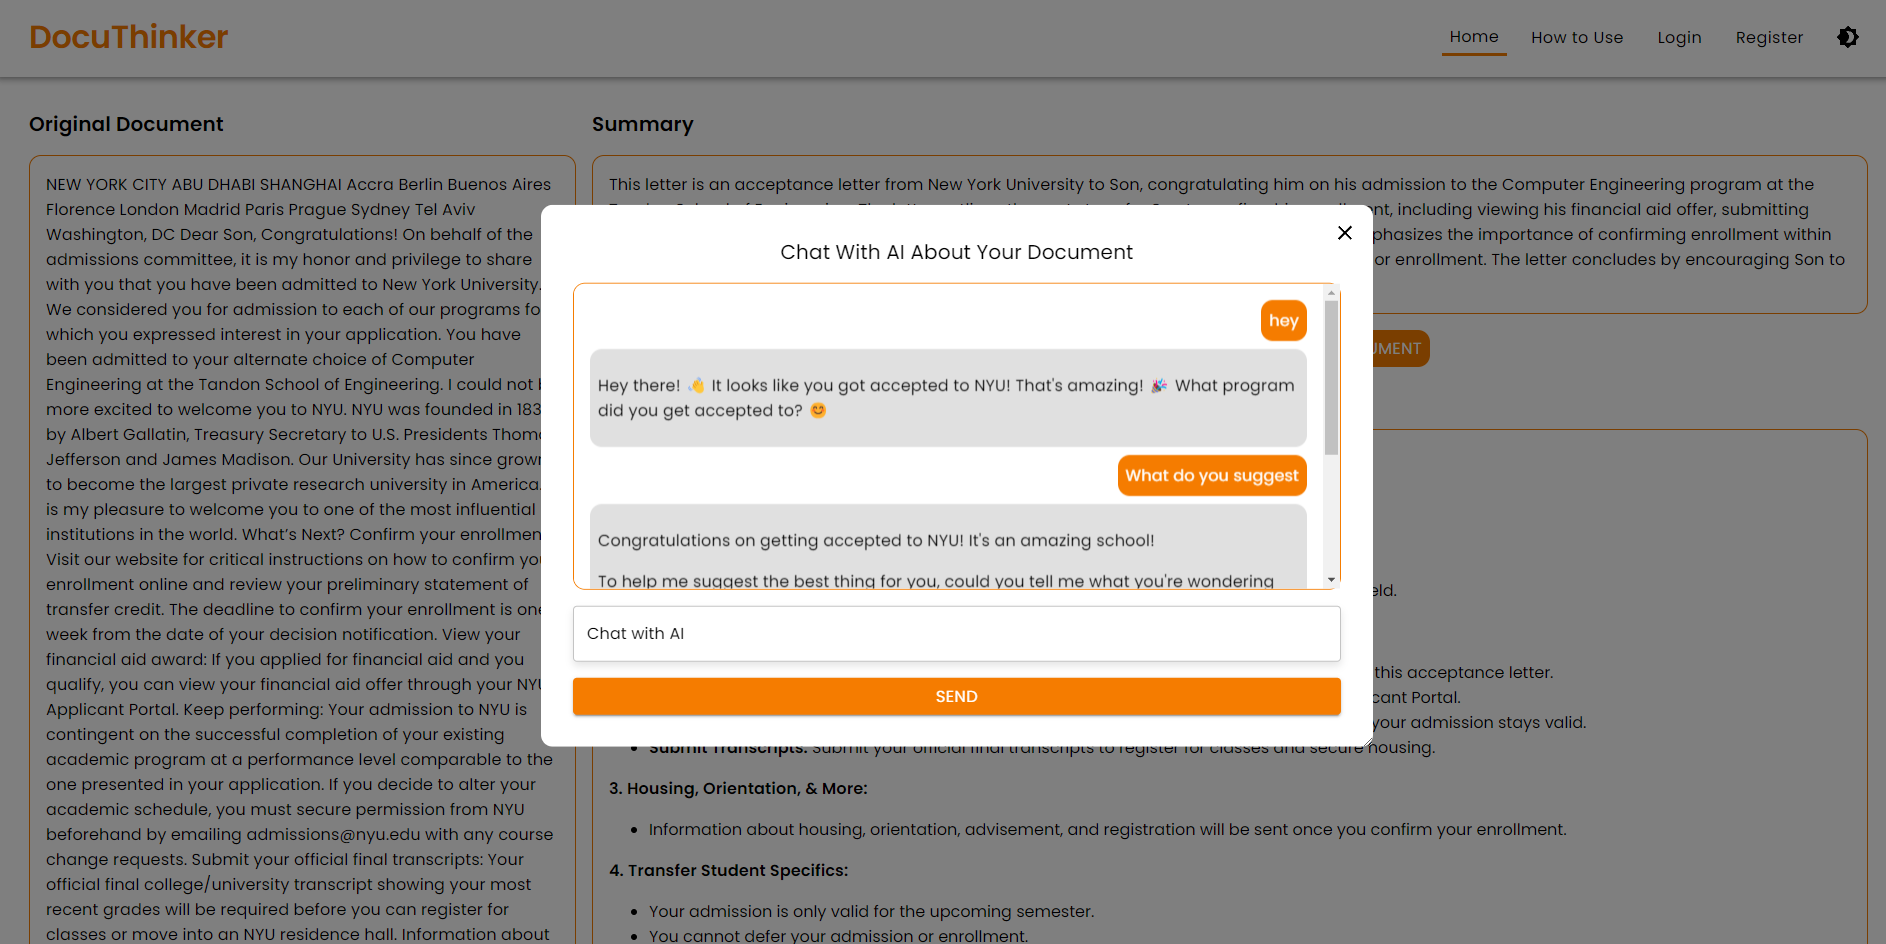
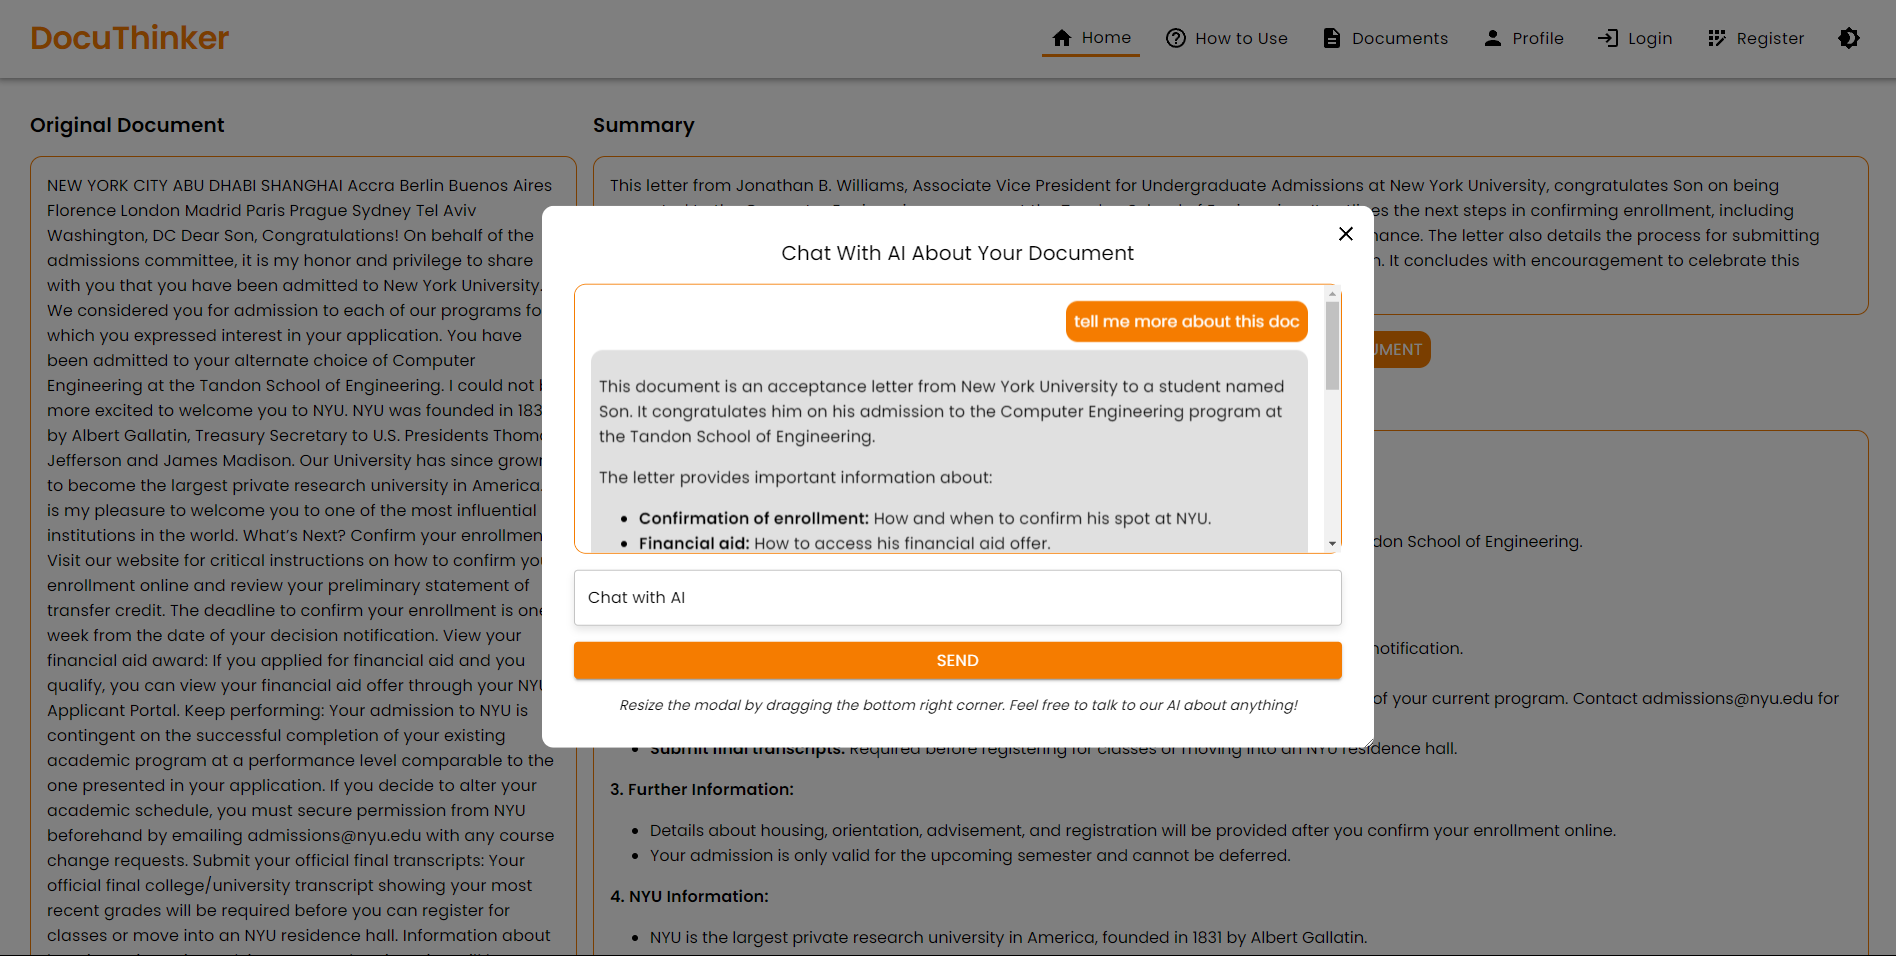
Final: App Working & React FE Done

diff --git a/README.md b/README.md
@@ -141,6 +141,12 @@ It is currently deployed live on **Vercel** and **Render**. You can access the l
   <img src="images/upload-dark.png" alt="Document Upload Page - Dark Mode" width="100%" style="border-radius: 8px">
 </p>
 
+### **Document Upload Page - Document Uploaded**
+
+<p align="center">
+  <img src="images/file-uploaded.png" alt="Document Upload Page - Document Uploaded" width="100%" style="border-radius: 8px">
+</p>
+
 ### **Home Page**
 
 <p align="center">
@@ -156,7 +162,7 @@ It is currently deployed live on **Vercel** and **Render**. You can access the l
 ### **Home Page - With Key Ideas**
 
 <p align="center">
-  <img src="images/home-with-key-ideas.png" alt="Home Page - With Key Ideas" width="100%" style="border-radius: 8px">
+  <img src="images/home-with-key-idea.png" alt="Home Page - With Key Ideas" width="100%" style="border-radius: 8px">
 </p>
 
 ### **Chat Modal**
@@ -169,6 +175,30 @@ It is currently deployed live on **Vercel** and **Render**. You can access the l
 
 <p align="center">
   <img src="images/chat-dark.png" alt="Chat Modal - Dark Mode" width="100%" style="border-radius: 8px">
+</p>
+
+### **Documents Page**
+
+<p align="center">
+  <img src="images/documents.png" alt="Documents Page" width="100%" style="border-radius: 8px">
+</p>
+
+### **Documents Page - Dark Mode**
+
+<p align="center">
+  <img src="images/documents-dark.png" alt="Documents Page - Dark Mode" width="100%" style="border-radius: 8px">
+</p>
+
+### **Profile Page**
+
+<p align="center">
+  <img src="images/profile.png" alt="Profile Page" width="100%" style="border-radius: 8px">
+</p>
+
+### **Profile Page - Dark Mode**
+
+<p align="center">
+  <img src="images/profile-dark.png" alt="Profile Page - Dark Mode" width="100%" style="border-radius: 8px">
 </p>
 
 ### **How To Use Page**
@@ -223,6 +253,12 @@ It is currently deployed live on **Vercel** and **Render**. You can access the l
 
 <p align="center">
   <img src="images/responsive.png" alt="Responsive Design" width="50%" style="border-radius: 8px">
+</p>
+
+### **Footer**
+
+<p align="center">
+  <img src="images/footer.png" alt="Footer" width="100%" style="border-radius: 8px">
 </p>
 
 <h2 id="complete-file-structure">📂 Complete File Structure</h2>
